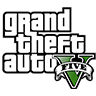
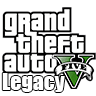
z

Changed region(s): [[0.0, 0.75, 0.6875, 0.9688]]

diff --git a/index.html b/index.html
@@ -380,7 +380,7 @@
                 <ul class="plan plan1">
                     <li class="plan-name">Master Package</li>
                     <li class="plan-price"> <strong>$175</strong> / Price </li>
-                    <li> <strong>Access to GTA 5, RDR2, FiveM, RedM and Spoofer</strong></li>
+                    <li> <strong>Access to GTA 5 Legacy & Enhanced, RDR2, FiveM, RedM and Spoofer</strong></li>
                     <li> <strong>Lifetime to all</strong></li>
     
                     <li class="plan-action"> <a href="https://scooby.sell.app/product/mpinf" class="btn btn-danger btn-lg"target="_blank">Buy Now</a> </li>
@@ -388,8 +388,84 @@
                     <li class="plan-action"><a href="giftcard.html" class="btn btn-danger btn-lg" target="_blank">Paysafe & Gift Cards</a></li>
                 </ul>
             </div>
+
+            <div class="col-lg-3 col-md-3 col-xs-6">
+                <ul class="plan plan1">
+                    <li class="plan-name">Tester/private 25 slots</li>
+                    <li class="plan-price"> <strong>$500</strong> / Price </li>
+                    <li> <strong>Access to GTA 5, RDR2, FiveM, RedM, Spoofer, unreleased products and Infamous Private</strong></li>
+                    <li> <strong>Lifetime to all</strong></li>
+    
+                    <li class="plan-action"> <a href="https://scooby.sell.app/product/mpinf" class="btn btn-danger btn-lg"target="_blank">Buy Now</a> </li>
+
+                    <li class="plan-action"><a href="giftcard.html" class="btn btn-danger btn-lg" target="_blank">Paysafe & Gift Cards</a></li>
+                </ul>
+            </div>
+
             
         </div>
+
+
+        
+    <div class="heading text-center">
+        <div class="container"> 
+            <!-- Heading -->
+  
+            <div class="picture-box">
+                <img src="images/log/gta5EN.png" alt="Picture" class="img-responsive">
+            </div>
+
+      
+        </div>
+
+    
+
+    </section>
+    <section id="plans" class="page-section">
+        <video id="video-background-plans" autoplay loop muted>
+            <source src="SnowNigger" type="video/mp4">
+            Your browser does not support the video tag.
+        </video>
+    
+ 
+    
+            
+            <div class="flat plan">
+         
+           <div class="col-lg-3 col-md-3 col-xs-6">
+                <ul class="plan plan1">
+                    <li class="plan-name">GTA 5 Enhanced Full Plus // (BattlEye Version)  </li>
+                    <li class="plan-price"><strong>$75</strong> / Price</li>
+           
+                    <li><strong>Battle Eye Enabled Support </strong></li>
+
+                    <li><strong>Fully Works in Public Sessions // Missions // Heists // Races etc</strong></li>
+                    
+                    <li><strong>No Host Needed</strong></li>
+                    
+                    <li><strong>  </strong></li>
+                    <li><strong>  </strong></li>
+                    <li><strong>  </strong></li>|
+                    <li><strong>  </strong></li>
+                    <li><strong>  </strong></li>
+                    <li><strong>  </strong></li>
+                    <li><strong>  </strong></li>
+                    <li><strong>  </strong></li>
+                    <li><strong>  </strong></li>
+                    <li><strong>  </strong></li>
+                    
+                    <li><strong>Lifetime</strong></li>
+                    <li class="plan-action"><a href="https://scooby.sell.app/product/infamous-full-plus-gta" class="btn btn-danger btn-lg" target="_blank">Buy Now</a></li>
+                    <li class="plan-action"><a href="https://scooby.sell.app/product/infamous-full-plus-gta" class="btn btn-danger btn-lg" target="_blank">Crypto</a></li>
+                    <li class="plan-action"><a href="giftcard.html" class="btn btn-danger btn-lg" target="_blank">Paysafe & Gift Cards</a></li>
+
+                    <li class="plan-action"><a href="https://scooby.sell.app/product/infamous-full-plus-gta-upgrade" class="btn btn-danger btn-lg" target="_blank">Upgrade From Legacy to Enhanced (keep both versions, when upgraded)</a></li>
+                </ul>
+            </div>
+
+
+        </div>
+
   
 
     <div class="heading text-center">
@@ -421,7 +497,7 @@
                     <li class="plan-name">GTA 5 Full Version</li>
                     <li class="plan-price"><strong>$20</strong> / Price</li>
                     <li><strong>Can Play Online in Solo & HOST is needed for Public sessions</strong></li>
-                    <li><strong>Battle eye Disabled</strong></li>
+                    <li><strong>Battle Eye Disabled</strong></li>
                     <li><strong>Inject in the loading screen</strong></li>
                     <li><strong></strong></li>
                     <li><strong>Session Bounty Loop</strong></li>
@@ -494,8 +570,8 @@
                     <li><strong>Free Shopping</strong></li>
                     <li><strong>ScriptHookV</strong></li>
                     <li><strong>Lua Support</strong></li>
-                    <li><strong>xml // ini // json support</strong></li>
-                    <li><strong>Save & Load Outfits & Vehicles </strong></li>
+                    <li><strong>xml // ini // json // txt // cfg support</strong></li>
+                    <li><strong>Save & Load Outfits & Vehicles & Maps</strong></li>
                     <li><strong>Advanced UI Editor</strong></li>
                     <li><strong>DLC Loading for Custom Vehicle/Ped Models</strong></li>
                     <li><strong>Overall Much More Unique & Fun Options</strong></li>
